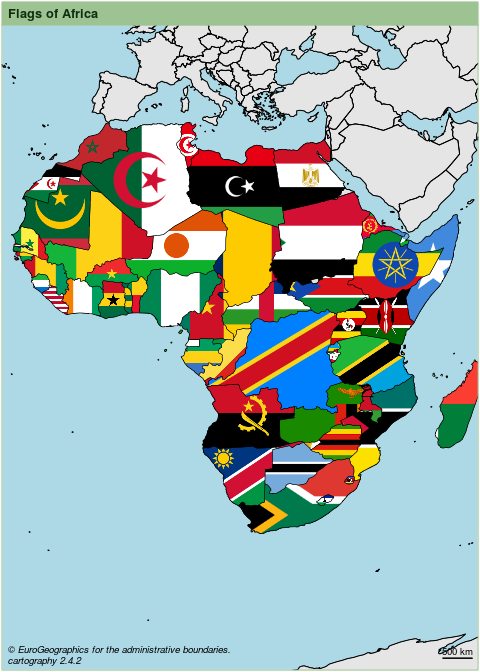
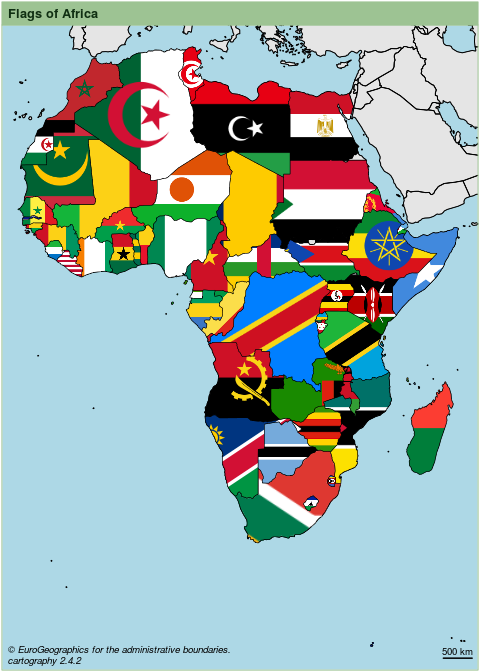
Add new images

diff --git a/collections/_vignettes/cartography1.md b/collections/_vignettes/cartography1.md
@@ -10,7 +10,7 @@ output:
     preserve_yaml: true
 ---
 
-# Introduction
+## Introduction
 
 The aim of this document is to describe the new features added to
 `cartography` on version `2.4.0` by
@@ -26,7 +26,7 @@ Those new features are:
 These functions don’t handle `sp` objects on purpose, favoring `sf`
 instead.
 
-# Installation
+## Installation
 
 ``` r
 #install.packages("cartography")
@@ -35,14 +35,14 @@ packageVersion("cartography")
 ## [1] '2.4.2'
 ```
 
-# Hatched Map
+## Hatched Map
 
 Version of typology/choropleth maps using a hatched filling. This is
 particularly useful for those maps that needs to be printed on black and
-white, as academic papers. This maps also are useful for representing
-overlapping dimensions on a map.
+white, as academic papers. These maps also are useful for representing
+overlapping dimensions.
 
-## Example 1
+### Example 1
 
 ``` r
 library(sf)
@@ -139,7 +139,7 @@ layoutLayer(
 
 ![](../../assets/img/misc/20201702_hatched-min-1.png)<!-- -->
 
-## Example 2
+### Example 2
 
 ``` r
 library(sf)
@@ -234,7 +234,7 @@ layoutLayer(
 that three line-type patterns are also plotted, as and in the previous
 case, `lty = c(1, 1, 3)` respect that order.
 
-## Example 3
+### Example 3
 
 `hatchedLayer` also could be useful for plotting several dimensions on
 the same map, in combination with another functions of the package.
@@ -338,7 +338,7 @@ layoutLayer(
 
 ![](../../assets/img/misc/20201702_hatched-adv-1.png)<!-- -->
 
-# png Layer
+## `png` Layer
 
 This new capability geotags a `.png` file, effectively converting the
 image into a tile. This allows the user to create visual maps by masking
@@ -347,14 +347,28 @@ an image to the shape of a `POLYGON/MULTIPOLYGON`.
 For high-quality png maps, **it is recommended to plot your map on a
 `.svg` device**.
 
-## Example 1
+### Example 1
 
 ``` r
 library(sf)
 library(cartography)
 
+cntries2 = st_read("https://ec.europa.eu/eurostat/cache/GISCO/distribution/v2/countries/geojson/CNTR_RG_20M_2016_3857.geojson",
+                  stringsAsFactors = FALSE)
+## Reading layer `CNTR_RG_20M_2016_3857' from data source `https://ec.europa.eu/eurostat/cache/GISCO/distribution/v2/countries/geojson/CNTR_RG_20M_2016_3857.geojson' using driver `GeoJSON'
+## Simple feature collection with 257 features and 6 fields
+## geometry type:  MULTIPOLYGON
+## dimension:      XY
+## bbox:           xmin: -20037510 ymin: -30240970 xmax: 20037510 ymax: 18446790
+## CRS:            3857
 
-africa=subset(cntries, CONTINENT.EN =="Africa") %>%
+cntries2 = merge(cntries2,
+                df,
+                by.x = "ISO3_CODE",
+                by.y = "ISO_3166_3",
+                all.x = TRUE)
+
+africa=subset(cntries2, CONTINENT.EN =="Africa") %>%
   arrange(desc(area_km2))
 
 
@@ -363,10 +377,10 @@ africa=subset(cntries, CONTINENT.EN =="Africa") %>%
 plot(st_geometry(africa[1:20,]), bg="lightblue")
 
 
-plot(st_geometry(cntries), col="grey90", add=TRUE)
+plot(st_geometry(cntries2), col="grey90", add=TRUE)
 
 #Iterate for Africa
-#Get flags from repo - low qualityn to speed up the vignette
+#Get flags from repo - low quality to speed up the vignette
 flagrepo = "https://raw.githubusercontent.com/hjnilsson/country-flags/master/png250px/"
 
 
@@ -377,7 +391,7 @@ for (i in 1:nrow(africa)) {
   pngLayer(a, add = TRUE)
 }
 #Add borders
-plot(st_geometry(cntries), add = TRUE, col = NA, lwd=0.4)
+plot(st_geometry(cntries2), add = TRUE, col = NA, lwd=0.4)
 
 layoutLayer(
   title = "Flags of Africa",
@@ -391,7 +405,7 @@ layoutLayer(
 
 ![](../../assets/img/misc/20201702_pnglayer-1.png)<!-- -->
 
-## Example 2
+### Example 2
 
 ``` r
 
@@ -418,7 +432,7 @@ pngLayer(UKpng, add=TRUE)
 
 ![](../../assets/img/misc/20201702_png-adv-1.png)<!-- -->
 
-# wordcloudLayer
+## wordcloudLayer
 
 A word cloud (or tag cloud) is a visual representation of text data. On
 a mapping context, this representation is useful for including several
@@ -429,7 +443,7 @@ between physical location, scale and labels. Size and colors of the
 words are also based on the frequency of the factor to be plotted,
 highlighting the most frequent terms over the rest.
 
-## Example 1
+### Example 1
 
 ``` r
 
@@ -454,7 +468,7 @@ layoutLayer(
 
 ![](../../assets/img/misc/20201702_wordcloud1-1.png)<!-- -->
 
-## Example 2
+### Example 2
 
 ``` r
 
